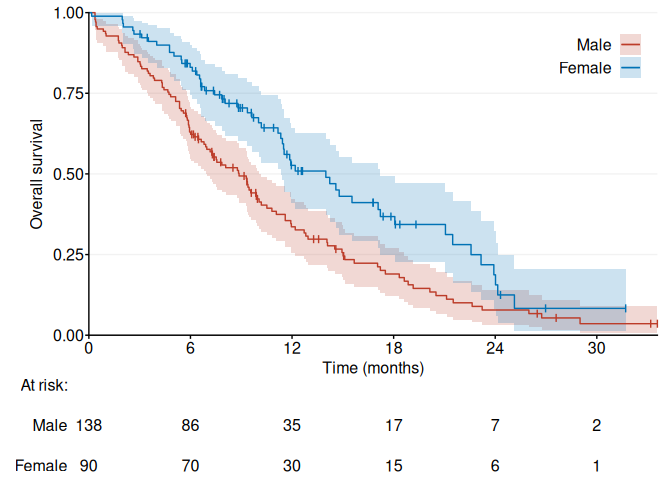
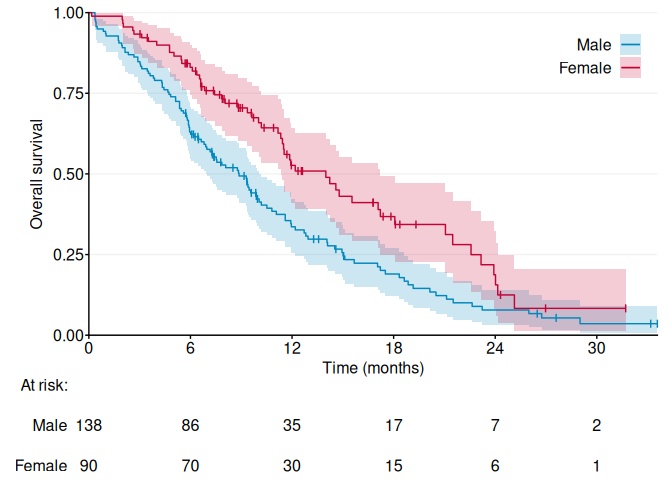
v0.14.2

Changed region(s): [[0.125, 0.0, 1.0, 0.7188], [0.9062, 0.0625, 0.9688, 0.1875]]

diff --git a/docs/reference/ggKM.html b/docs/reference/ggKM.html
@@ -9,7 +9,7 @@ table."></head><body>
 
     <a class="navbar-brand me-2" href="../index.html">ggKaplanMeier</a>
 
-    <small class="nav-text text-muted me-auto" data-bs-toggle="tooltip" data-bs-placement="bottom" title="">0.14.1</small>
+    <small class="nav-text text-muted me-auto" data-bs-toggle="tooltip" data-bs-placement="bottom" title="">0.14.2</small>
 
 
     <button class="navbar-toggler" type="button" data-bs-toggle="collapse" data-bs-target="#navbar" aria-controls="navbar" aria-expanded="false" aria-label="Toggle navigation">
@@ -49,7 +49,8 @@ table.</p>
 <span>  breaks.t <span class="op">=</span> <span class="cn">NULL</span>,</span>
 <span>  CI <span class="op">=</span> <span class="st">"cloglog"</span>,</span>
 <span>  CI.alpha <span class="op">=</span> <span class="fl">0.2</span>,</span>
-<span>  colors <span class="op">=</span> <span class="op">(</span><span class="fu">ggsci</span><span class="fu">::</span><span class="fu"><a href="https://nanx.me/ggsci/reference/pal_nejm.html" class="external-link">pal_nejm</a></span><span class="op">(</span><span class="op">)</span><span class="op">)</span><span class="op">(</span><span class="fl">8</span><span class="op">)</span>,</span>
+<span>  colors <span class="op">=</span> <span class="fu"><a href="https://rdrr.io/r/base/c.html" class="external-link">c</a></span><span class="op">(</span><span class="st">"#0087BD"</span>, <span class="st">"#C40233"</span>, <span class="st">"#009F6B"</span>, <span class="st">"#FFD300"</span>, <span class="st">"#F37715"</span>, <span class="st">"#9755AE"</span>, <span class="st">"#5774C4"</span>,</span>
+<span>    <span class="st">"#BF2779"</span><span class="op">)</span>,</span>
 <span>  digits.fixed <span class="op">=</span> <span class="fl">1</span>,</span>
 <span>  grid.color <span class="op">=</span> <span class="fu">grDevices</span><span class="fu">::</span><span class="fu"><a href="https://rdrr.io/r/grDevices/rgb.html" class="external-link">rgb</a></span><span class="op">(</span><span class="fl">0.95</span>, <span class="fl">0.95</span>, <span class="fl">0.95</span><span class="op">)</span>,</span>
 <span>  grid.s <span class="op">=</span> <span class="fu"><a href="https://rdrr.io/r/base/seq.html" class="external-link">seq</a></span><span class="op">(</span><span class="fl">0</span>, <span class="fl">1</span>, <span class="fl">0.25</span><span class="op">)</span>,</span>
@@ -136,8 +137,7 @@ package)</p></li>
 
 
 <dt id="arg-colors">colors<a class="anchor" aria-label="anchor" href="#arg-colors"></a></dt>
-<dd><p>Vector of colors of the survival curves. Default =
-<code>ggsci::pal_nejm()(8)</code>.</p></dd>
+<dd><p>Vector of colors of the survival curves. Default = <code>c("#0087BD",  "#C40233", "#009F6B", "#FFD300", "#F37715", "#9755AE", "#5774C4", "#BF2779")</code>.</p></dd>
 
 
 <dt id="arg-digits-fixed">digits.fixed<a class="anchor" aria-label="anchor" href="#arg-digits-fixed"></a></dt>

diff --git a/docs/authors.html b/docs/authors.html
@@ -7,7 +7,7 @@
 
     <a class="navbar-brand me-2" href="index.html">ggKaplanMeier</a>
 
-    <small class="nav-text text-muted me-auto" data-bs-toggle="tooltip" data-bs-placement="bottom" title="">0.14.1</small>
+    <small class="nav-text text-muted me-auto" data-bs-toggle="tooltip" data-bs-placement="bottom" title="">0.14.2</small>
 
 
     <button class="navbar-toggler" type="button" data-bs-toggle="collapse" data-bs-target="#navbar" aria-controls="navbar" aria-expanded="false" aria-label="Toggle navigation">
@@ -45,13 +45,13 @@
 
       <p>Hong W (2026).
 <em>ggKaplanMeier: Kaplan-Meier plots</em>.
-R package version 0.14.1, <a href="https://github.com/hongconsulting/ggKaplanMeier" class="external-link">https://github.com/hongconsulting/ggKaplanMeier</a>.
+R package version 0.14.2, <a href="https://github.com/hongconsulting/ggKaplanMeier" class="external-link">https://github.com/hongconsulting/ggKaplanMeier</a>.
 </p>
       <pre>@Manual{,
   title = {ggKaplanMeier: Kaplan-Meier plots},
   author = {Wei Hong},
   year = {2026},
-  note = {R package version 0.14.1},
+  note = {R package version 0.14.2},
   url = {https://github.com/hongconsulting/ggKaplanMeier},
 }</pre>
     </div>

diff --git a/docs/404.html b/docs/404.html
@@ -20,7 +20,7 @@
 
     <a class="navbar-brand me-2" href="https://hongconsulting.github.io/ggKaplanMeier/index.html">ggKaplanMeier</a>
 
-    <small class="nav-text text-muted me-auto" data-bs-toggle="tooltip" data-bs-placement="bottom" title="">0.14.1</small>
+    <small class="nav-text text-muted me-auto" data-bs-toggle="tooltip" data-bs-placement="bottom" title="">0.14.2</small>
 
 
     <button class="navbar-toggler" type="button" data-bs-toggle="collapse" data-bs-target="#navbar" aria-controls="navbar" aria-expanded="false" aria-label="Toggle navigation">

diff --git a/docs/reference/index.html b/docs/reference/index.html
@@ -7,7 +7,7 @@
 
     <a class="navbar-brand me-2" href="../index.html">ggKaplanMeier</a>
 
-    <small class="nav-text text-muted me-auto" data-bs-toggle="tooltip" data-bs-placement="bottom" title="">0.14.1</small>
+    <small class="nav-text text-muted me-auto" data-bs-toggle="tooltip" data-bs-placement="bottom" title="">0.14.2</small>
 
 
     <button class="navbar-toggler" type="button" data-bs-toggle="collapse" data-bs-target="#navbar" aria-controls="navbar" aria-expanded="false" aria-label="Toggle navigation">

diff --git a/docs/index.html b/docs/index.html
@@ -22,7 +22,7 @@
 
     <a class="navbar-brand me-2" href="index.html">ggKaplanMeier</a>
 
-    <small class="nav-text text-muted me-auto" data-bs-toggle="tooltip" data-bs-placement="bottom" title="">0.14.1</small>
+    <small class="nav-text text-muted me-auto" data-bs-toggle="tooltip" data-bs-placement="bottom" title="">0.14.2</small>
 
 
     <button class="navbar-toggler" type="button" data-bs-toggle="collapse" data-bs-target="#navbar" aria-controls="navbar" aria-expanded="false" aria-label="Toggle navigation">

diff --git a/docs/LICENSE.html b/docs/LICENSE.html
@@ -7,7 +7,7 @@
 
     <a class="navbar-brand me-2" href="index.html">ggKaplanMeier</a>
 
-    <small class="nav-text text-muted me-auto" data-bs-toggle="tooltip" data-bs-placement="bottom" title="">0.14.1</small>
+    <small class="nav-text text-muted me-auto" data-bs-toggle="tooltip" data-bs-placement="bottom" title="">0.14.2</small>
 
 
     <button class="navbar-toggler" type="button" data-bs-toggle="collapse" data-bs-target="#navbar" aria-controls="navbar" aria-expanded="false" aria-label="Toggle navigation">
